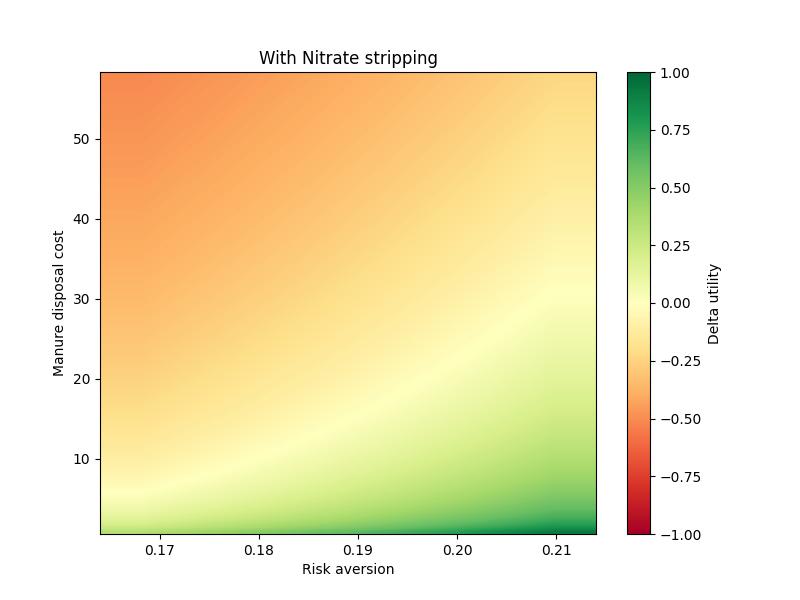
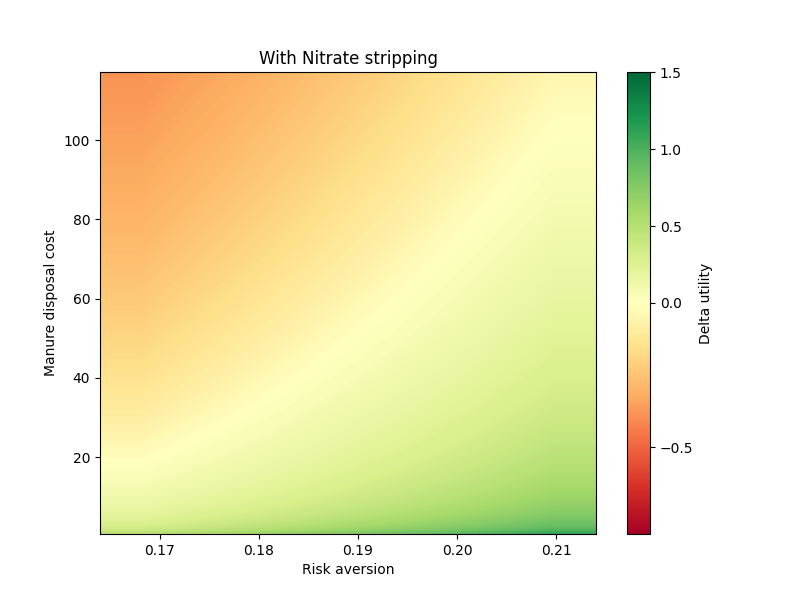
d

diff --git a/Biogas/Biogas.py b/Biogas/Biogas.py
@@ -4,6 +4,7 @@ import matplotlib.pyplot as plt
 import pandas as pd 
 import matplotlib.colors as colors
 from scipy.interpolate import interp1d
+from mpl_toolkits.mplot3d import Axes3D
 #%% Parameters initialization
 
 N_limit = 170 # kg N/ha, direttiva nitrati
@@ -16,7 +17,7 @@ Land_cost_to_right = 0.005 # fraction of the land cost to be paid in case of lan
 Land_rights = Land_cost * Land_cost_to_right
 p_sanction = 0.3 # Probabilità di sanzione
 p_sanction_val = np.arange(0.01,1,0.05)
-Land_cost_to_rights_val = np.arange(0.001,0.1,0.001) #
+Land_cost_to_rights_val = np.arange(0.001,0.2,0.001) #
 Land_cost_0	= 0 #Land cost for non-compliace
 Sanction = 2582.28  # 516.46 ad euro 5164.57 , Disciplina tecnica per la utilizzazione dei liquami zootecnici - Le sanzioni amministrative sono così graduate: a) in sede di prima violazione, la sanzione da applicare è pari alla sanzione minima prevista;b) in sede di seconda violazione, la sanzione da applicare è pari al 50% della sanzione massima prevista;c) in sede di terza violazione, la sanzione da applicare è pari al 75% della sanzione massima prevista;d) in sede di quarta e successiva violazione, la sanzione da applicare è pari alla sanzione massima prevista
 Sanction_val = [516.46, 2582.28, 3873.43 , 5164.57] # min, 50%, 75%, max
@@ -89,7 +90,7 @@ def plot_results(results, par1 , par2, b = False):
 def heatmap2d(arr: np.ndarray, xlabel, ylabel, x_param, y_param, b = False):
 
     plt.figure(figsize=(8,6))
-    norm = colors.TwoSlopeNorm(vmin= -1, vcenter=0 , vmax=+1)
+    norm = colors.TwoSlopeNorm(vmin= -0.8, vcenter=0 , vmax=+1.5)
     img = plt.imshow(arr,aspect='auto', origin='lower', 
                  extent=[ y_param[0], y_param[-1],x_param[0], x_param[-1]], 
                   interpolation= 'Bilinear', cmap='RdYlGn', norm=norm)
@@ -140,10 +141,6 @@ def deltab_heat(arr: np.ndarray, xlabel, ylabel, x_param, y_param):
     plt.show()
 
 
-# %%
-from mpl_toolkits.mplot3d import Axes3D
-from matplotlib import pyplot as plt
-from matplotlib import colors
 def surface3d_plot(arr: np.ndarray, xlabel, ylabel, x_param, y_param, b=False):
     fig = plt.figure(figsize=(10, 8))
     ax = fig.add_subplot(111, projection='3d')
@@ -179,18 +176,18 @@ def surface3d_plot(arr: np.ndarray, xlabel, ylabel, x_param, y_param, b=False):
 # Sensitivity analysis
 results = np.zeros((len(Land_cost_to_rights_val),len(Risk_aversion_val)))
 resultsb  = np.zeros((len(Land_cost_to_rights_val),len(Risk_aversion_val)))
+deltab  = np.zeros((len(Land_cost_to_rights_val),len(Risk_aversion_val)))
 for i in range(len(Land_cost_to_rights_val)):
     for j in range(len(Risk_aversion_val)):
         L_r = Land_cost * Land_cost_to_rights_val[i]*0.3
         results[i,j]= delta_compliance(L_r, Risk_aversion_val[j], p_sanction, Land_cost_0, Sanction)
         resultsb[i,j]= delta_compliance_b(L_r, Risk_aversion_val[j], p_sanction, Land_cost_0, Sanction, N_strip_eff)
+        deltab[i,j]= resultsb[i,j] - results[i,j]
 # Plot the heatmap
 lr = Land_cost_to_rights_val*Land_cost
 heatmap2d(results, 'Risk aversion', 'Manure disposal cost', lr, Risk_aversion_val)
 heatmap2d(resultsb, 'Risk aversion', 'Manure disposal cost', lr, Risk_aversion_val,1)
-
-surface3d_plot(results, 'Risk aversion', 'Manure disposal cost', lr, Risk_aversion_val)
-
+deltab_heat(deltab, 'Risk aversion', 'Manure disposal cost',Sanction_val,p_sanction_val)
 
 # %% Sanction and probability of sanction
 results2 = np.zeros((len(Sanction_val),len(p_sanction_val)))
@@ -205,8 +202,6 @@ for i in range(len(Sanction_val)):
 heatmap2d(results2,  'Probability of sanction', 'Sanction',Sanction_val,p_sanction_val )
 heatmap2d(resultsb,  'Probability of sanction', 'Sanction',Sanction_val,p_sanction_val,1 )
 deltab_heat(deltab, 'Probability of sanction', 'Sanction',Sanction_val,p_sanction_val)
-surface3d_plot(results2, 'Probability of sanction', 'Sanction',Sanction_val,p_sanction_val)
-
 
 # %% Risk aversion and probability of sanction
 results = np.zeros((len(p_sanction_val),len(Risk_aversion_val)))
@@ -222,7 +217,6 @@ for i in range(len(Risk_aversion_val)):
 heatmap2d(results, 'Risk aversion', 'Probability of sanction', p_sanction_val, Risk_aversion_val, )
 heatmap2d(resultsb, 'Risk aversion', 'Probability of sanction', p_sanction_val,Risk_aversion_val, 1)
 deltab_heat(deltab, 'Risk aversion', 'Probability of sanction', p_sanction_val,Risk_aversion_val)
-surface3d_plot(results, 'Risk aversion', 'Probability of sanction', p_sanction_val,Risk_aversion_val)
 # %%
 # %% Risk aversion and Land_rights
 results = np.zeros((len(Land_cost_to_rights_val),len(Risk_aversion_val)))
@@ -237,7 +231,6 @@ for i in range(len(Land_cost_to_rights_val)):
 heatmap2d(results, 'Risk aversion', 'Manure disposal cost',(Land_cost * Land_cost_to_rights_val), Risk_aversion_val)
 heatmap2d(resultsb, 'Risk aversion', 'Manure disposal cost',(Land_cost * Land_cost_to_rights_val), Risk_aversion_val,1)
 deltab_heat(resultsb-results, 'Risk aversion', 'Manure disposal cost',(Land_cost * Land_cost_to_rights_val), Risk_aversion_val)
-surface3d_plot(results, 'Risk aversion', 'Manure disposal cost',(Land_cost * Land_cost_to_rights_val), Risk_aversion_val)
 # %% Nitrogen removal efficiency and probability of sanction
 results = np.zeros((len(p_sanction_val),len(N_strip_eff_val)))
 resultsb  = np.zeros((len(p_sanction_val),len(N_strip_eff_val)))
@@ -251,7 +244,6 @@ for i in range(len(p_sanction_val)):
 heatmap2d(results, 'Nitrogen removal efficiency', 'Probability of sanction',p_sanction_val, N_strip_eff_val )
 heatmap2d(resultsb, 'Nitrogen removal efficiency', 'Probability of sanction',p_sanction_val, N_strip_eff_val,1 )
 deltab_heat(deltab, 'Nitrogen removal efficiency', 'Probability of sanction',p_sanction_val, N_strip_eff_val)
-surface3d_plot(results, 'Nitrogen removal efficiency', 'Probability of sanction',p_sanction_val, N_strip_eff_val)
 # %% Manure disposal cost and Nitrogen removal efficiency
 results = np.zeros((len(Land_cost_to_rights_val),len(N_strip_eff_val)))
 resultsb  = np.zeros((len(Land_cost_to_rights_val),len(N_strip_eff_val)))
@@ -264,17 +256,6 @@ for i in range(len(Land_cost_to_rights_val)):
 heatmap2d2(results, 'Nitrogen removal efficiency', 'Manure disposal cost', (Land_cost * Land_cost_to_rights_val), N_strip_eff_val)
 heatmap2d2(resultsb, 'Nitrogen removal efficiency', 'Manure disposal cost', (Land_cost * Land_cost_to_rights_val), N_strip_eff_val,1)
 deltab_heat(resultsb-results, 'Nitrogen removal efficiency', 'Manure disposal cost', (Land_cost * Land_cost_to_rights_val), N_strip_eff_val)
-# %% MAnure disposal cost and risk aversion
-results = np.zeros((len(Land_cost_to_rights_val),len(Risk_aversion_val)))
-resultsb  = np.zeros((len(Land_cost_to_rights_val),len(Risk_aversion_val)))
-for i in range(len(Land_cost_to_rights_val)):
-    for j in range(len(Risk_aversion_val)):
-        L_r = Land_cost * Land_cost_to_rights_val[i]
-        results[i,j]= delta_compliance(L_r, Risk_aversion_val[j], p_sanction, Land_cost_0, Sanction)
-        resultsb[i,j]= delta_compliance_b(L_r, Risk_aversion_val[j], p_sanction, Land_cost_0, Sanction, N_strip_eff)
-# Plot the heatmap
-heatmap2d(results, 'Risk aversion', 'Manure disposal cost', (Land_cost * Land_cost_to_rights_val), Risk_aversion_val)
-heatmap2d(resultsb, 'Risk aversion', 'Manure disposal cost', (Land_cost * Land_cost_to_rights_val), Risk_aversion_val,1)
-deltab_heat(resultsb-results, 'Risk aversion', 'Manure disposal cost', (Land_cost * Land_cost_to_rights_val), Risk_aversion_val)
+
 
 # %%
